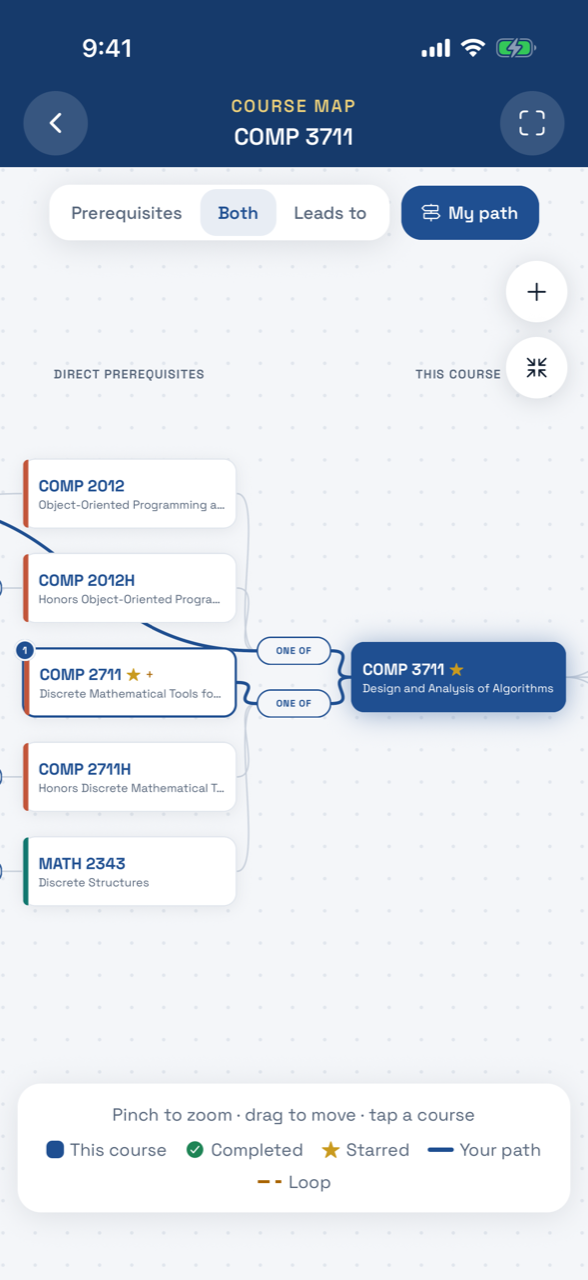
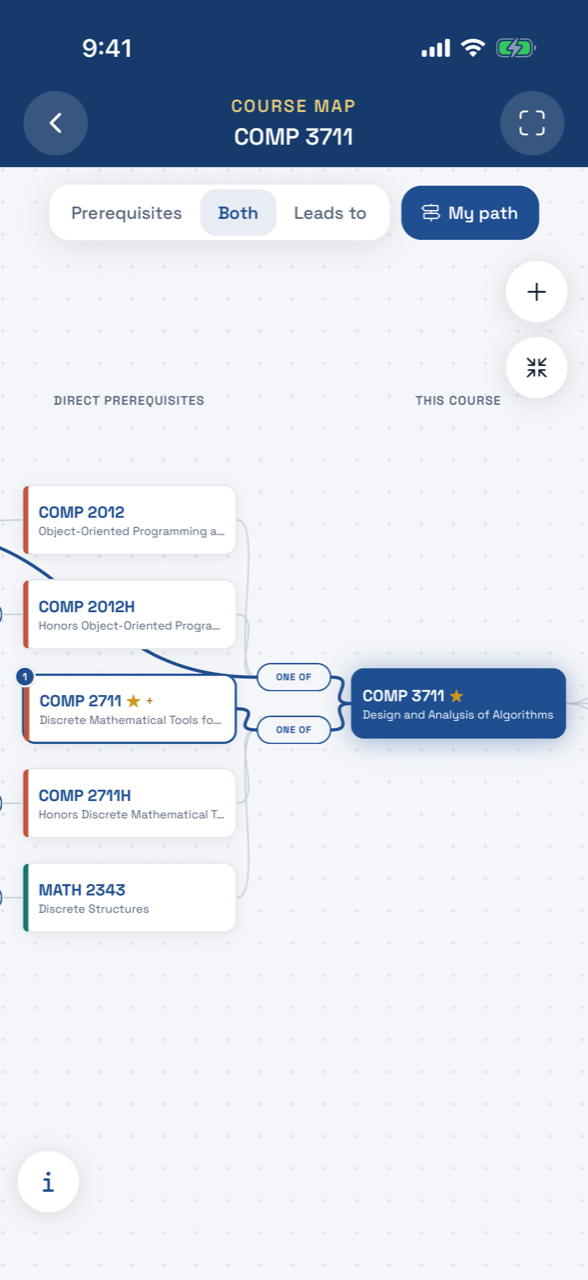
Map: the key is hidden behind an "i" button
- The key (what the colours and lines mean) starts hidden; a round "i" at the bottom
  left shows it above the button, which turns into a close button
- The map frames itself with less space reserved at the bottom
- README map screenshot and demo GIF regenerated

diff --git a/app/screens/CourseMapScreen.tsx b/app/screens/CourseMapScreen.tsx
@@ -58,6 +58,8 @@ export function CourseMapScreen({ route, navigation }: AppStackScreenProps<"Cour
   const [mode, setMode] = useState<MapMode>("both")
   const [showPath, setShowPath] = useState(true)
   const [selected, setSelected] = useState<string>()
+  // The key (what the colours and lines mean) stays out of the way until asked for.
+  const [keyOpen, setKeyOpen] = useState(false)
   // Courses expanded to the right of the focus, one per column (see buildCourseMap).
   const [trail, setTrail] = useState<string[]>([])
 
@@ -116,7 +118,7 @@ export function CourseMapScreen({ route, navigation }: AppStackScreenProps<"Cour
     originRef.current = origin
   })
   // Space kept clear of the floating controls at the top and the card/legend at the bottom.
-  const inset = { top: 64, bottom: 120 }
+  const inset = { top: 64, bottom: 84 }
 
   const fitTransform = useCallback(() => {
     const availW = viewport.w - 24
@@ -638,7 +640,28 @@ export function CourseMapScreen({ route, navigation }: AppStackScreenProps<"Cour
               onClose={() => select(undefined)}
             />
           ) : (
-            <Legend showPath={showPath && !!path && mode !== "leads"} />
+            <View style={$keyArea} pointerEvents="box-none">
+              {keyOpen && <Legend showPath={showPath && !!path && mode !== "leads"} />}
+              <Pressable
+                accessibilityRole="button"
+                accessibilityLabel={translate(keyOpen ? "map:keyHide" : "map:keyShow")}
+                accessibilityState={{ expanded: keyOpen }}
+                testID="map-key-toggle"
+                onPress={() => setKeyOpen((v) => !v)}
+                hitSlop={8}
+                style={({ pressed }) => [
+                  themed($roundButton),
+                  keyOpen && themed($roundButtonOn),
+                  pressed && $pressed,
+                ]}
+              >
+                <Ionicons
+                  name={keyOpen ? "close" : "information"}
+                  size={keyOpen ? 20 : 22}
+                  color={keyOpen ? colors.palette.neutral100 : colors.tint}
+                />
+              </Pressable>
+            </View>
           )}
         </View>
       </View>
@@ -1138,6 +1161,10 @@ const $pathToggle: ThemedStyle<ViewStyle> = ({ colors, isDark }) => ({
 })
 const $pathToggleOn: ThemedStyle<ViewStyle> = ({ colors }) => ({ backgroundColor: colors.tint })
 
+const $keyArea: ViewStyle = { gap: 10, alignItems: "flex-start" }
+
+const $roundButtonOn: ThemedStyle<ViewStyle> = ({ colors }) => ({ backgroundColor: colors.tint })
+
 const $zoomButtons: ViewStyle = { position: "absolute", right: 14, top: 64, gap: 10 }
 
 const $roundButton: ThemedStyle<ViewStyle> = ({ colors, isDark }) => ({
@@ -1191,6 +1218,7 @@ const $secondary: ThemedStyle<ViewStyle> = ({ colors }) => ({
 })
 
 const $legend: ThemedStyle<ViewStyle> = ({ colors, isDark, spacing }) => ({
+  alignSelf: "stretch",
   paddingHorizontal: spacing.md,
   paddingVertical: spacing.sm,
   gap: 6,

diff --git a/app/i18n/en.ts b/app/i18n/en.ts
@@ -166,6 +166,8 @@ const en = {
     leadsNone: "Doesn't lead to any other course",
     leadsBadge: "Leads to {{n}} more",
     trail: "Explored path",
+    keyShow: "Show the map key",
+    keyHide: "Hide the map key",
     legendCourse: "This course",
     legendCompleted: "Completed",
     legendStarred: "Starred",
